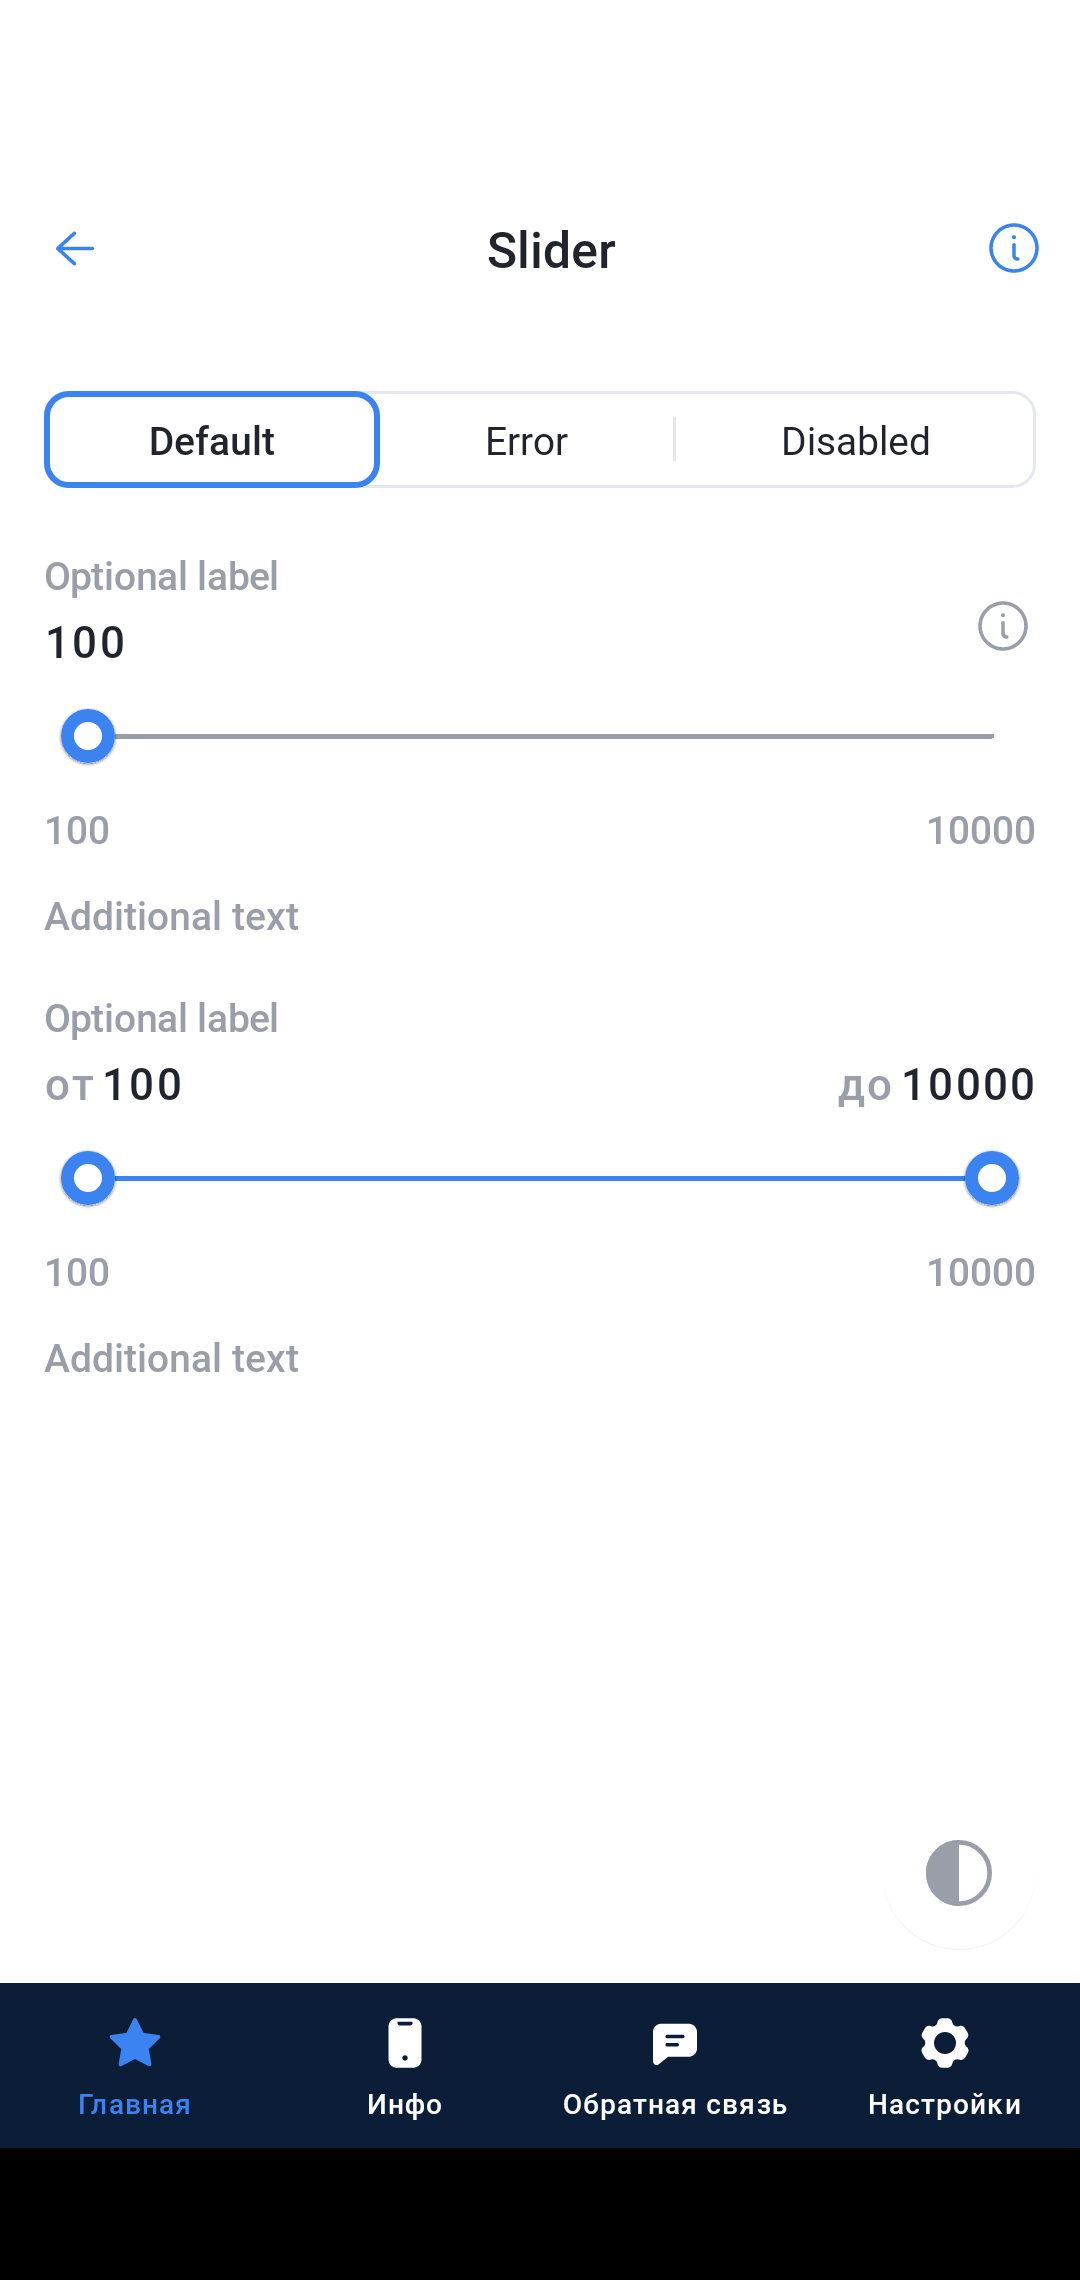
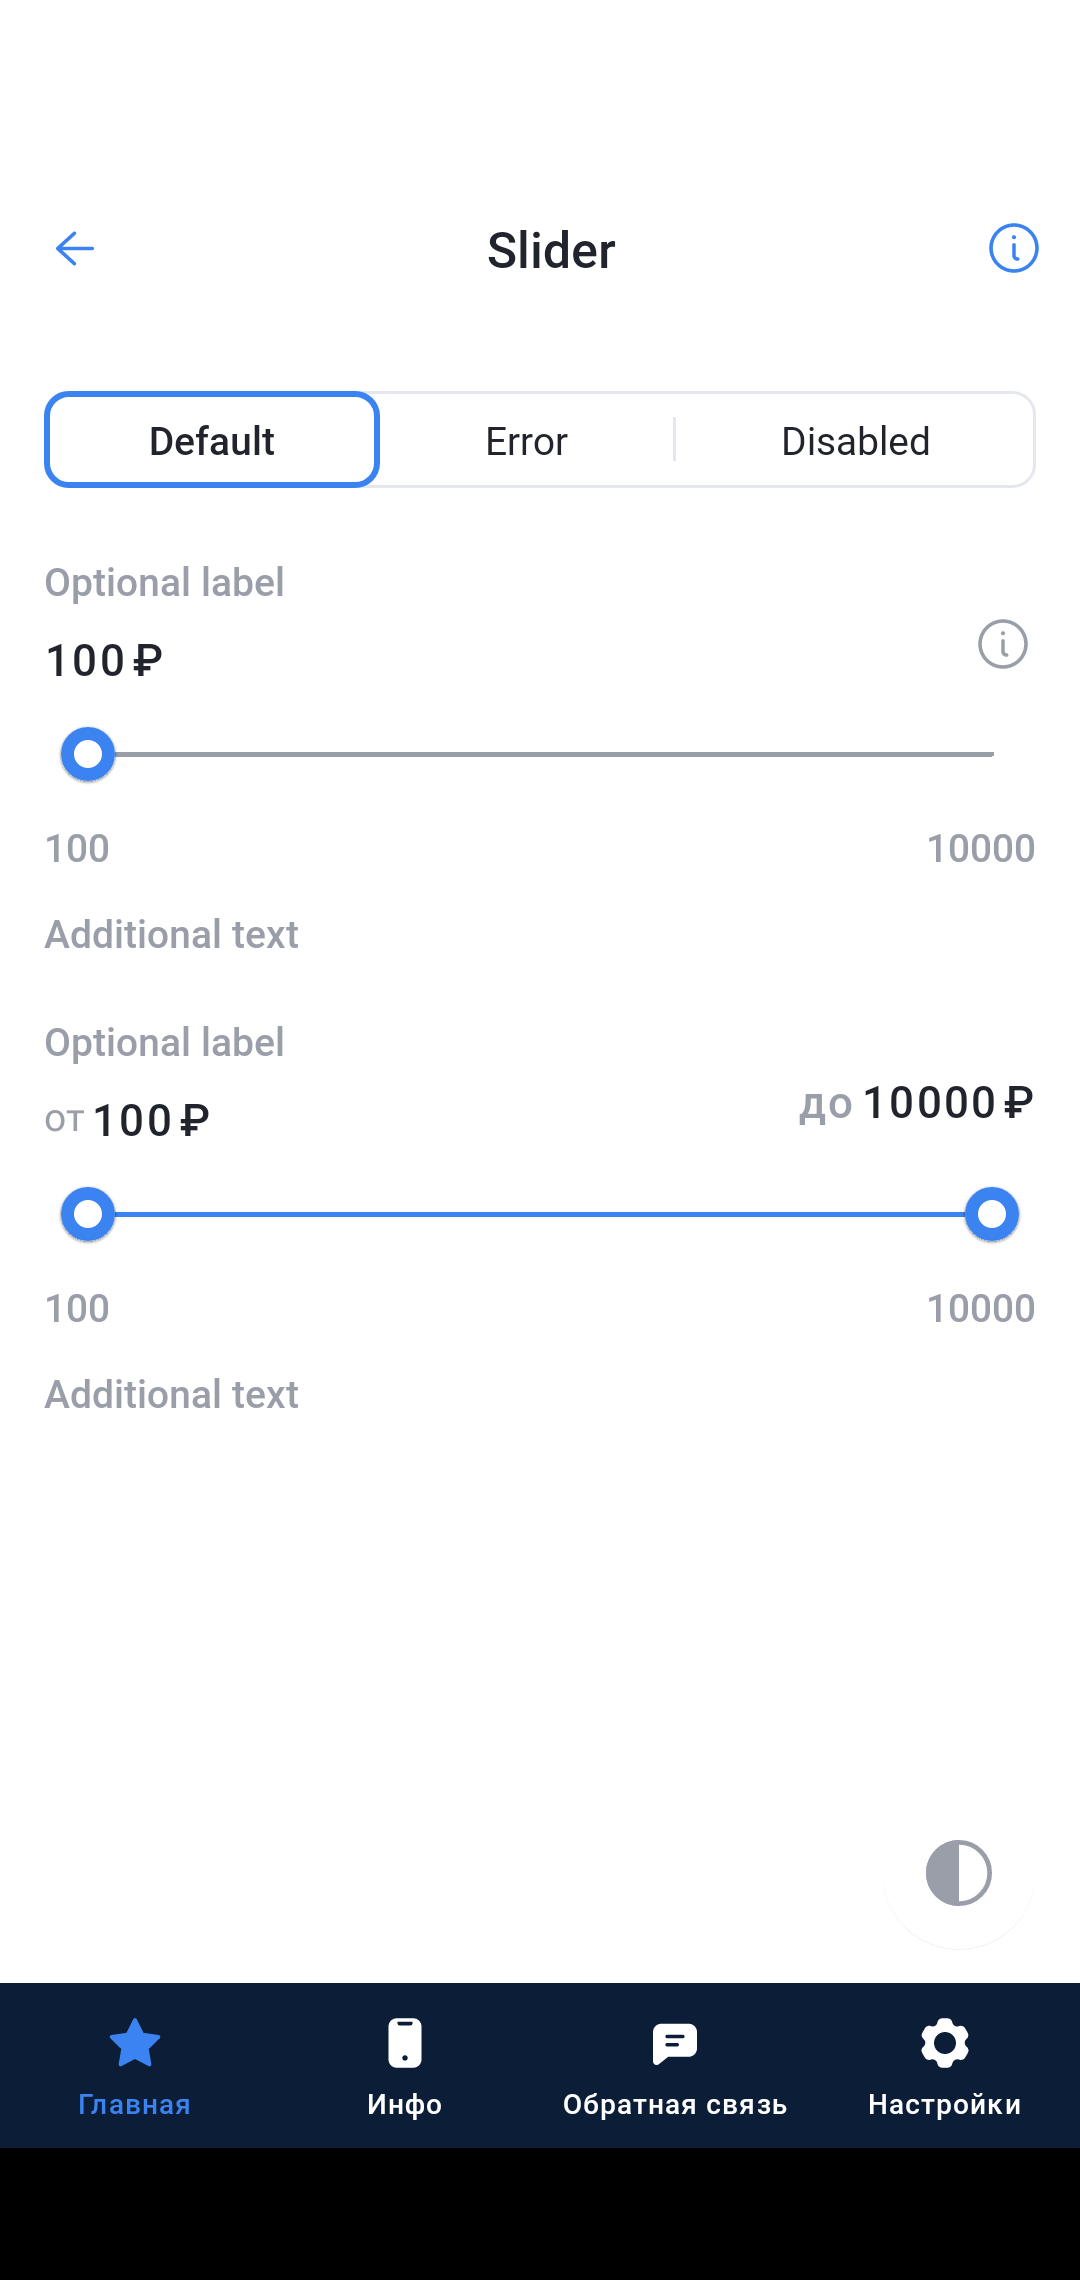
[FEATURE-211] - add suffix for the sliders

Changed region(s): [[0.0306, 0.2491, 0.9472, 0.6228], [0.7333, 0.4671, 0.9778, 0.5917], [0.9167, 0.2491, 0.9472, 0.3114]]

diff --git a/admiral-uikit/src/main/java/com/admiral/uikit/components/textfield/DoubleSlider.kt b/admiral-uikit/src/main/java/com/admiral/uikit/components/textfield/DoubleSlider.kt
@@ -12,6 +12,7 @@ import androidx.constraintlayout.widget.ConstraintLayout
 import androidx.core.content.res.use
 import androidx.core.view.doOnLayout
 import androidx.core.view.isGone
+import androidx.core.view.isVisible
 import com.admiral.themes.Theme
 import com.admiral.themes.ThemeManager
 import com.admiral.themes.ThemeObserver
@@ -112,7 +113,7 @@ class DoubleSlider @JvmOverloads constructor(
     var optionalText: String? = null
         set(value) {
             field = value
-            invalidateTextHint()
+            invalidateOptionalText()
         }
 
     /**
@@ -123,7 +124,7 @@ class DoubleSlider @JvmOverloads constructor(
         set(value) {
             field = value
             binding.inputLayoutFrom.placeholderText = value
-            invalidateTextHint()
+            invalidateOptionalText()
         }
 
     /**
@@ -134,7 +135,7 @@ class DoubleSlider @JvmOverloads constructor(
         set(value) {
             field = value
             //binding.inputLayoutTo.placeholderText = value
-            invalidateTextHint()
+            invalidateOptionalText()
         }
 
     /**
@@ -147,6 +148,16 @@ class DoubleSlider @JvmOverloads constructor(
                 text = value
                 isGone = value.isNullOrEmpty()
             }
+        }
+
+    /**
+     * Suffix text which is placed under divider.
+     */
+    var suffixText: String? = null
+        set(value) {
+            field = value
+            binding.inputLayoutFrom.suffixText = value
+            binding.inputLayoutTo.suffixText = value
         }
 
     /**
@@ -377,6 +388,7 @@ class DoubleSlider @JvmOverloads constructor(
         optionalText = a.getString(R.styleable.DoubleSlider_admiralTextOptional)
         placeholderText = a.getString(R.styleable.DoubleSlider_admiralTextOptional)
         additionalText = a.getString(R.styleable.DoubleSlider_admiralTextAdditional)
+        suffixText = a.getString(R.styleable.DoubleSlider_admiralSuffixText)
     }
 
     private fun parseDefaultColors(a: TypedArray) {
@@ -414,7 +426,9 @@ class DoubleSlider @JvmOverloads constructor(
                 .let { if (isEnabled) it else it.withAlpha() }
         )
         binding.inputLayoutFrom.setPrefixTextColor(colorStateList)
+        binding.inputLayoutFrom.setSuffixTextColor(editTextColorState)
         binding.inputLayoutTo.setPrefixTextColor(colorStateList)
+        binding.inputLayoutTo.setSuffixTextColor(editTextColorState)
         binding.leftTextView.setTextColor(colorStateList)
         binding.rightTextView.setTextColor(colorStateList)
 
@@ -428,18 +442,7 @@ class DoubleSlider @JvmOverloads constructor(
         val placeholderTextColorStateList =
             ColorStateList.valueOf(ThemeManager.theme.palette.textMask)
 
-        binding.inputLayoutFrom.apply {
-            defaultHintTextColor = ColorStateList.valueOf(defaultColor)
-            doOnLayout {
-                placeholderTextColor = placeholderTextColorStateList
-            }
-        }
-        binding.inputLayoutTo.apply {
-            defaultHintTextColor = ColorStateList.valueOf(defaultColor)
-            doOnLayout {
-                placeholderTextColor = placeholderTextColorStateList
-            }
-        }
+        binding.admiralDoubleSliderOptionalText.textColor = ColorState(defaultColor)
 
         val additionalTextColor: Int = when {
             isError -> errorColor ?: ThemeManager.theme.palette.textError
@@ -462,18 +465,9 @@ class DoubleSlider @JvmOverloads constructor(
         }
     }
 
-    private fun invalidateTextHint() {
-        binding.inputLayoutFrom.apply {
-            isHintEnabled = !optionalText.isNullOrEmpty()
-            hint = optionalText
-        }
-        editText.hint = if (optionalText == null) placeholderText else null
-
-//        binding.inputLayoutTo.apply {
-//            isHintEnabled = !placeholderTextTo.isNullOrEmpty()
-//            hint = placeholderTextTo
-//        }
-        editTextTo.hint = placeholderTextTo
+    private fun invalidateOptionalText() {
+        binding.admiralDoubleSliderOptionalText.text = optionalText
+        binding.admiralDoubleSliderOptionalText.isVisible = optionalText != null
     }
 
     private fun invalidateValueFrom() {

diff --git a/admiral-uikit/src/main/java/com/admiral/uikit/components/textfield/Slider.kt b/admiral-uikit/src/main/java/com/admiral/uikit/components/textfield/Slider.kt
@@ -14,7 +14,6 @@ import android.widget.EditText
 import androidx.annotation.ColorInt
 import androidx.constraintlayout.widget.ConstraintLayout
 import androidx.core.content.res.use
-import androidx.core.view.doOnLayout
 import androidx.core.view.isGone
 import androidx.core.view.isVisible
 import com.admiral.themes.Theme
@@ -172,6 +171,15 @@ class Slider @JvmOverloads constructor(
                 text = value
                 isGone = value.isNullOrEmpty()
             }
+        }
+
+    /**
+     * Suffix text which is placed under divider.
+     */
+    var suffixText: String? = null
+        set(value) {
+            field = value
+            binding.inputLayout.suffixText = value
         }
 
     /**
@@ -398,6 +406,7 @@ class Slider @JvmOverloads constructor(
         optionalText = a.getString(R.styleable.Slider_admiralTextOptional)
         placeholderText = a.getString(R.styleable.Slider_admiralTextPlaceholder)
         additionalText = a.getString(R.styleable.Slider_admiralTextAdditional)
+        suffixText = a.getString(R.styleable.Slider_admiralSuffixText)
     }
 
     private fun parseIcon(a: TypedArray) {
@@ -431,7 +440,7 @@ class Slider @JvmOverloads constructor(
     private fun invalidateColors() {
         invalidateEditTextColor()
         invalidateRangeTextsColor()
-        invalidateHintTextColor()
+        invalidateOptionalTextColor()
         invalidateAdditionalTextColor()
         invalidateSliderTextColor()
     }
@@ -459,7 +468,7 @@ class Slider @JvmOverloads constructor(
         binding.additionalTextView.textColor = ColorState(additionalTextColor)
     }
 
-    private fun invalidateHintTextColor() {
+    private fun invalidateOptionalTextColor() {
         var defaultColor: Int = when {
             isError -> errorColor ?: ThemeManager.theme.palette.textError
             isNowFocused -> textColors?.focused ?: ThemeManager.theme.palette.textAccent
@@ -473,15 +482,7 @@ class Slider @JvmOverloads constructor(
                 errorColor?.withAlpha() ?: ThemeManager.theme.palette.textError.withAlpha()
         }
 
-        binding.inputLayout.apply {
-            Handler(Looper.getMainLooper()).post {
-                defaultHintTextColor = ColorStateList.valueOf(defaultColor)
-            }
-
-            doOnLayout {
-                placeholderTextColor = ColorStateList.valueOf(ThemeManager.theme.palette.textMask)
-            }
-        }
+        binding.admiralSliderOptionalText.textColor = ColorState(defaultColor)
     }
 
     private fun invalidateRangeTextsColor() {
@@ -499,15 +500,13 @@ class Slider @JvmOverloads constructor(
                 ?: ThemeManager.theme.palette.textPrimary.withAlpha(),
             pressed = inputTextColor ?: ThemeManager.theme.palette.textPrimary
         )
+        binding.inputLayout.setSuffixTextColor(editTextColorState)
         binding.editText.setTextColor(editTextColorState)
     }
 
     private fun invalidateTextHint() {
-        binding.inputLayout.apply {
-            isHintEnabled = !optionalText.isNullOrEmpty()
-            hint = optionalText
-        }
-        editText.hint = if (optionalText == null) placeholderText else null
+        binding.admiralSliderOptionalText.text = optionalText
+        binding.admiralSliderOptionalText.isVisible = optionalText != null
     }
 
     private fun invalidateValueFrom() {
